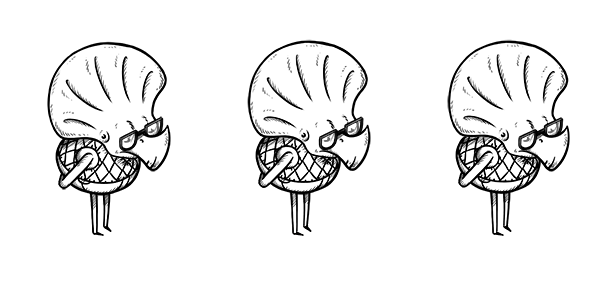
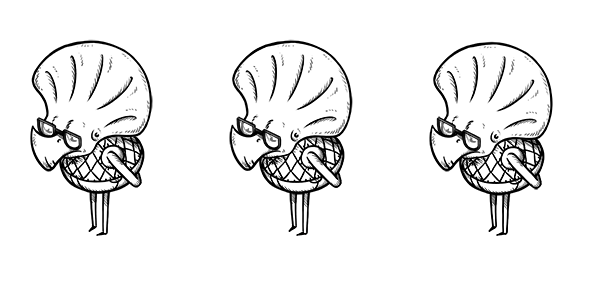
Flipped the boss asset. Replaced the necomedre gate at the end of the tutorial with the original entry door.

diff --git a/scripts/core/stage.js b/scripts/core/stage.js
@@ -204,7 +204,8 @@ function Stage()
     if(step == 5){ oquonie.artbook.set_art("#wall_5","media/graphics/wall/15.png"); }
     if(step == 4){ oquonie.artbook.set_art("#wall_3","media/graphics/wall/25.png"); }
     if(step == 3){ oquonie.artbook.set_art("#wall_0","media/graphics/wall/26.png"); }
-    if(step == 2){ oquonie.artbook.set_art("#wall_4","media/graphics/wall/gate.necomedre.open.png"); }
+    // if(step == 2){ oquonie.artbook.set_art("#wall_4","media/graphics/wall/gate.necomedre.open.png"); }
+    if(step == 2){ oquonie.artbook.set_art("#wall_4","media/graphics/wall/40.png"); }
     if(step == 1){ oquonie.artbook.set_art("#wall_2","media/graphics/wall/15.png"); }
 
     setTimeout(function(){ oquonie.stage.destroy(step-1); }, 50);

diff --git a/scripts/core/world.js b/scripts/core/world.js
@@ -267,7 +267,7 @@ function World()
     room.theme  = "white";
     room.add_event(new Blocker(-1,1,16));
     room.add_event(new Blocker(1,-1,1));
-    room.add_event(new Boss(1,0),false);
+    room.add_event(new Boss(1,0));
     room.add_event(new Door(2,0,1,0,0));
     this.rooms[30] = room
     
